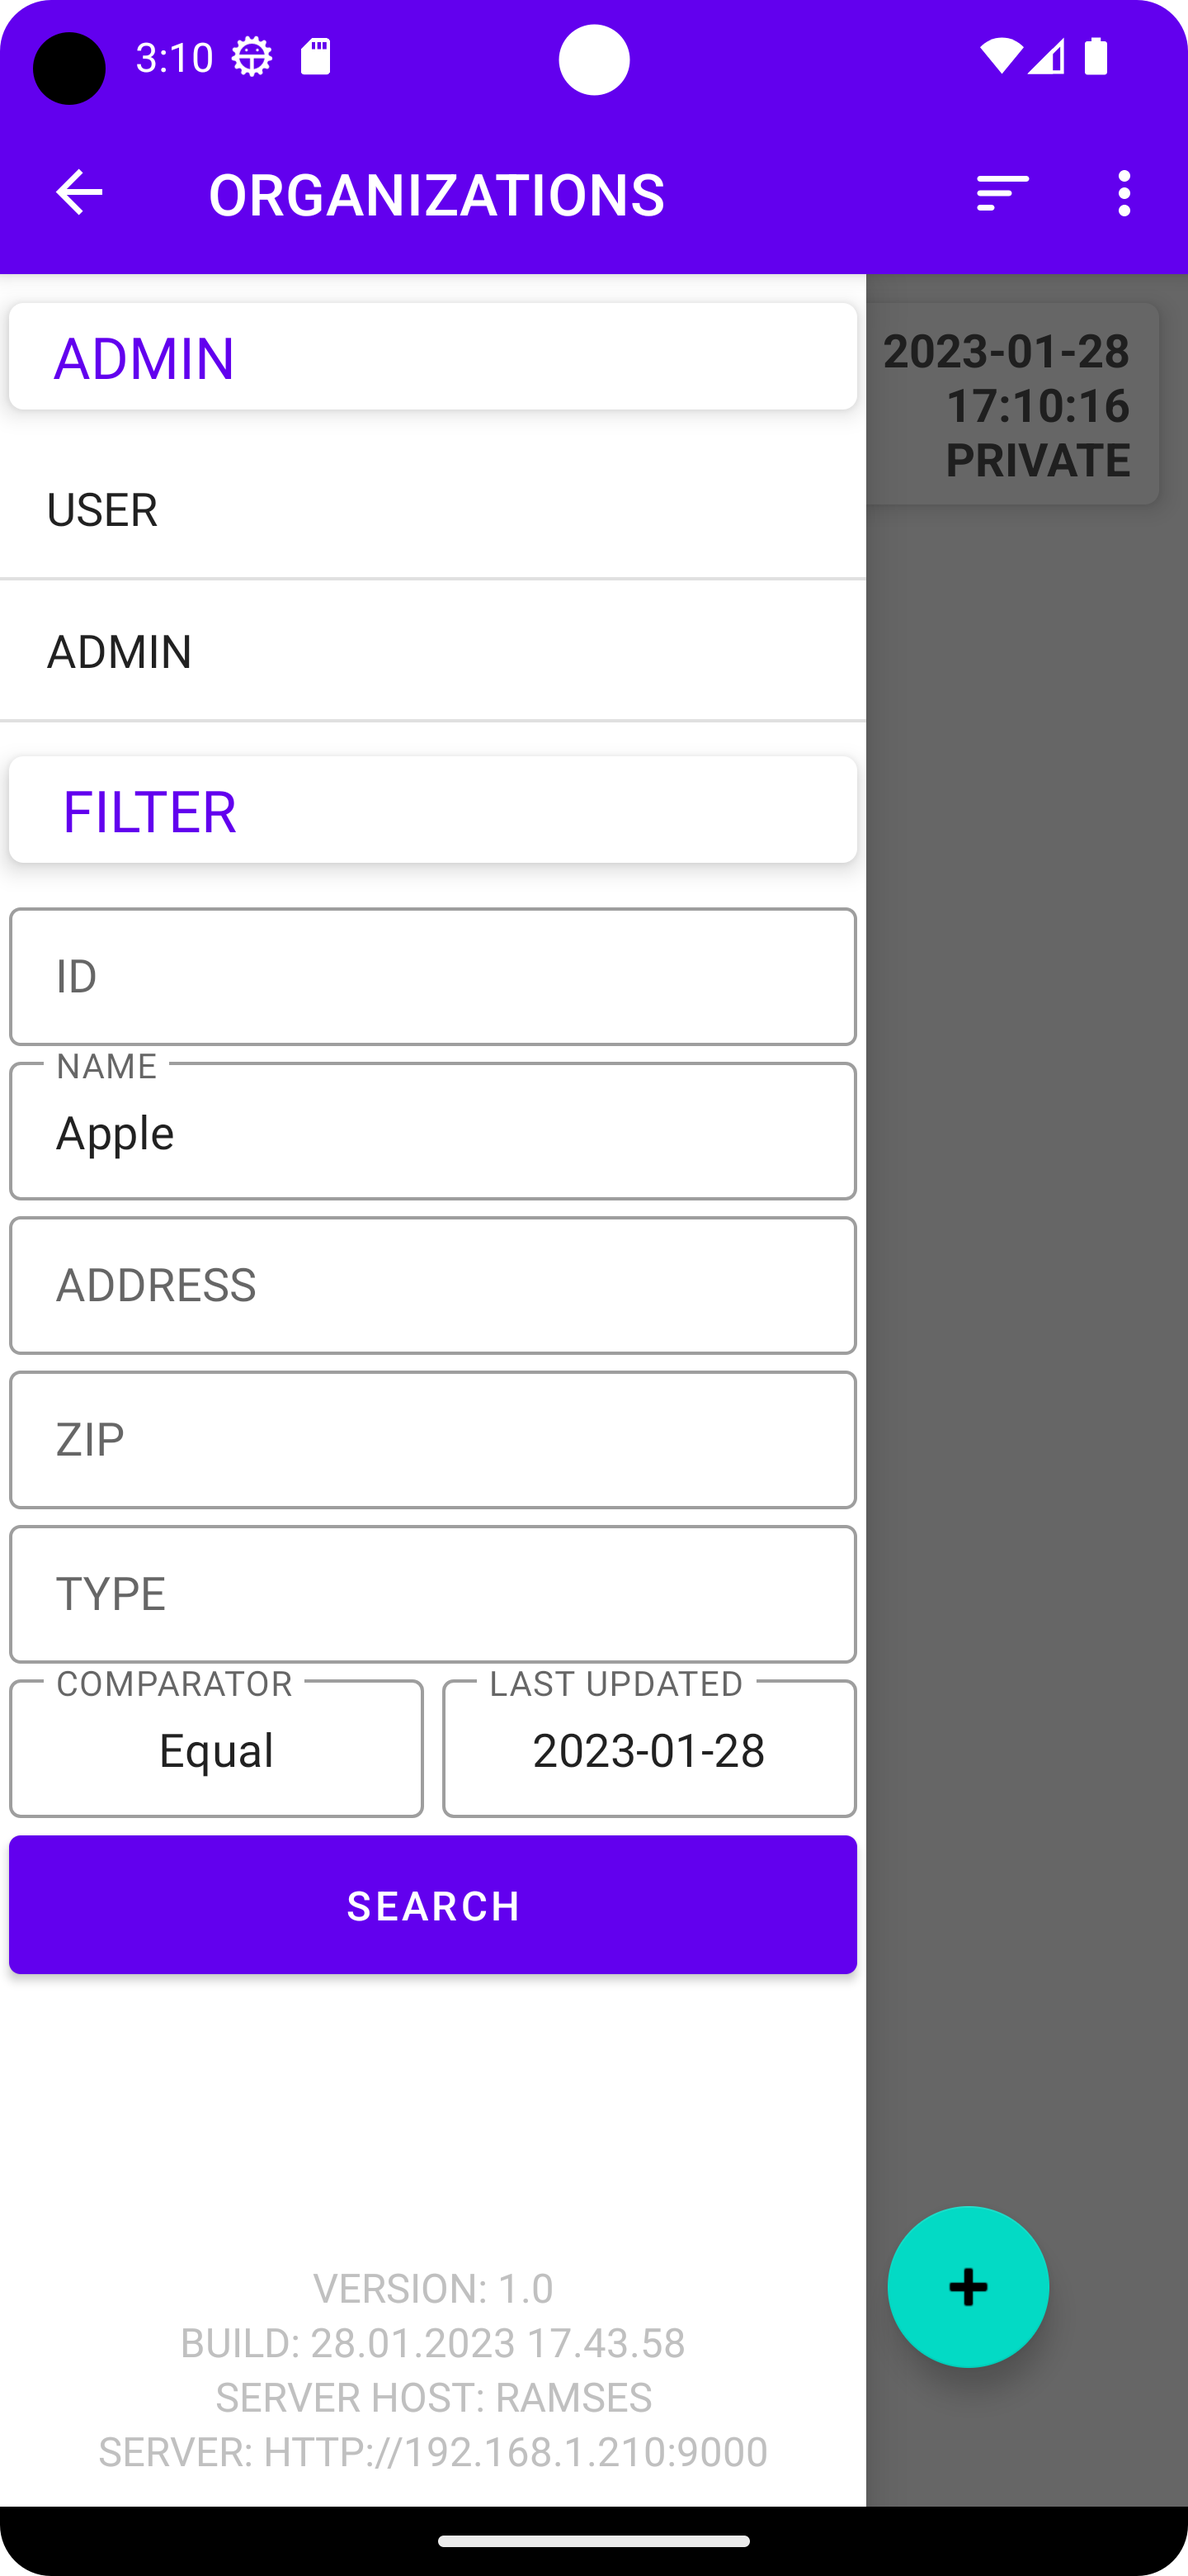
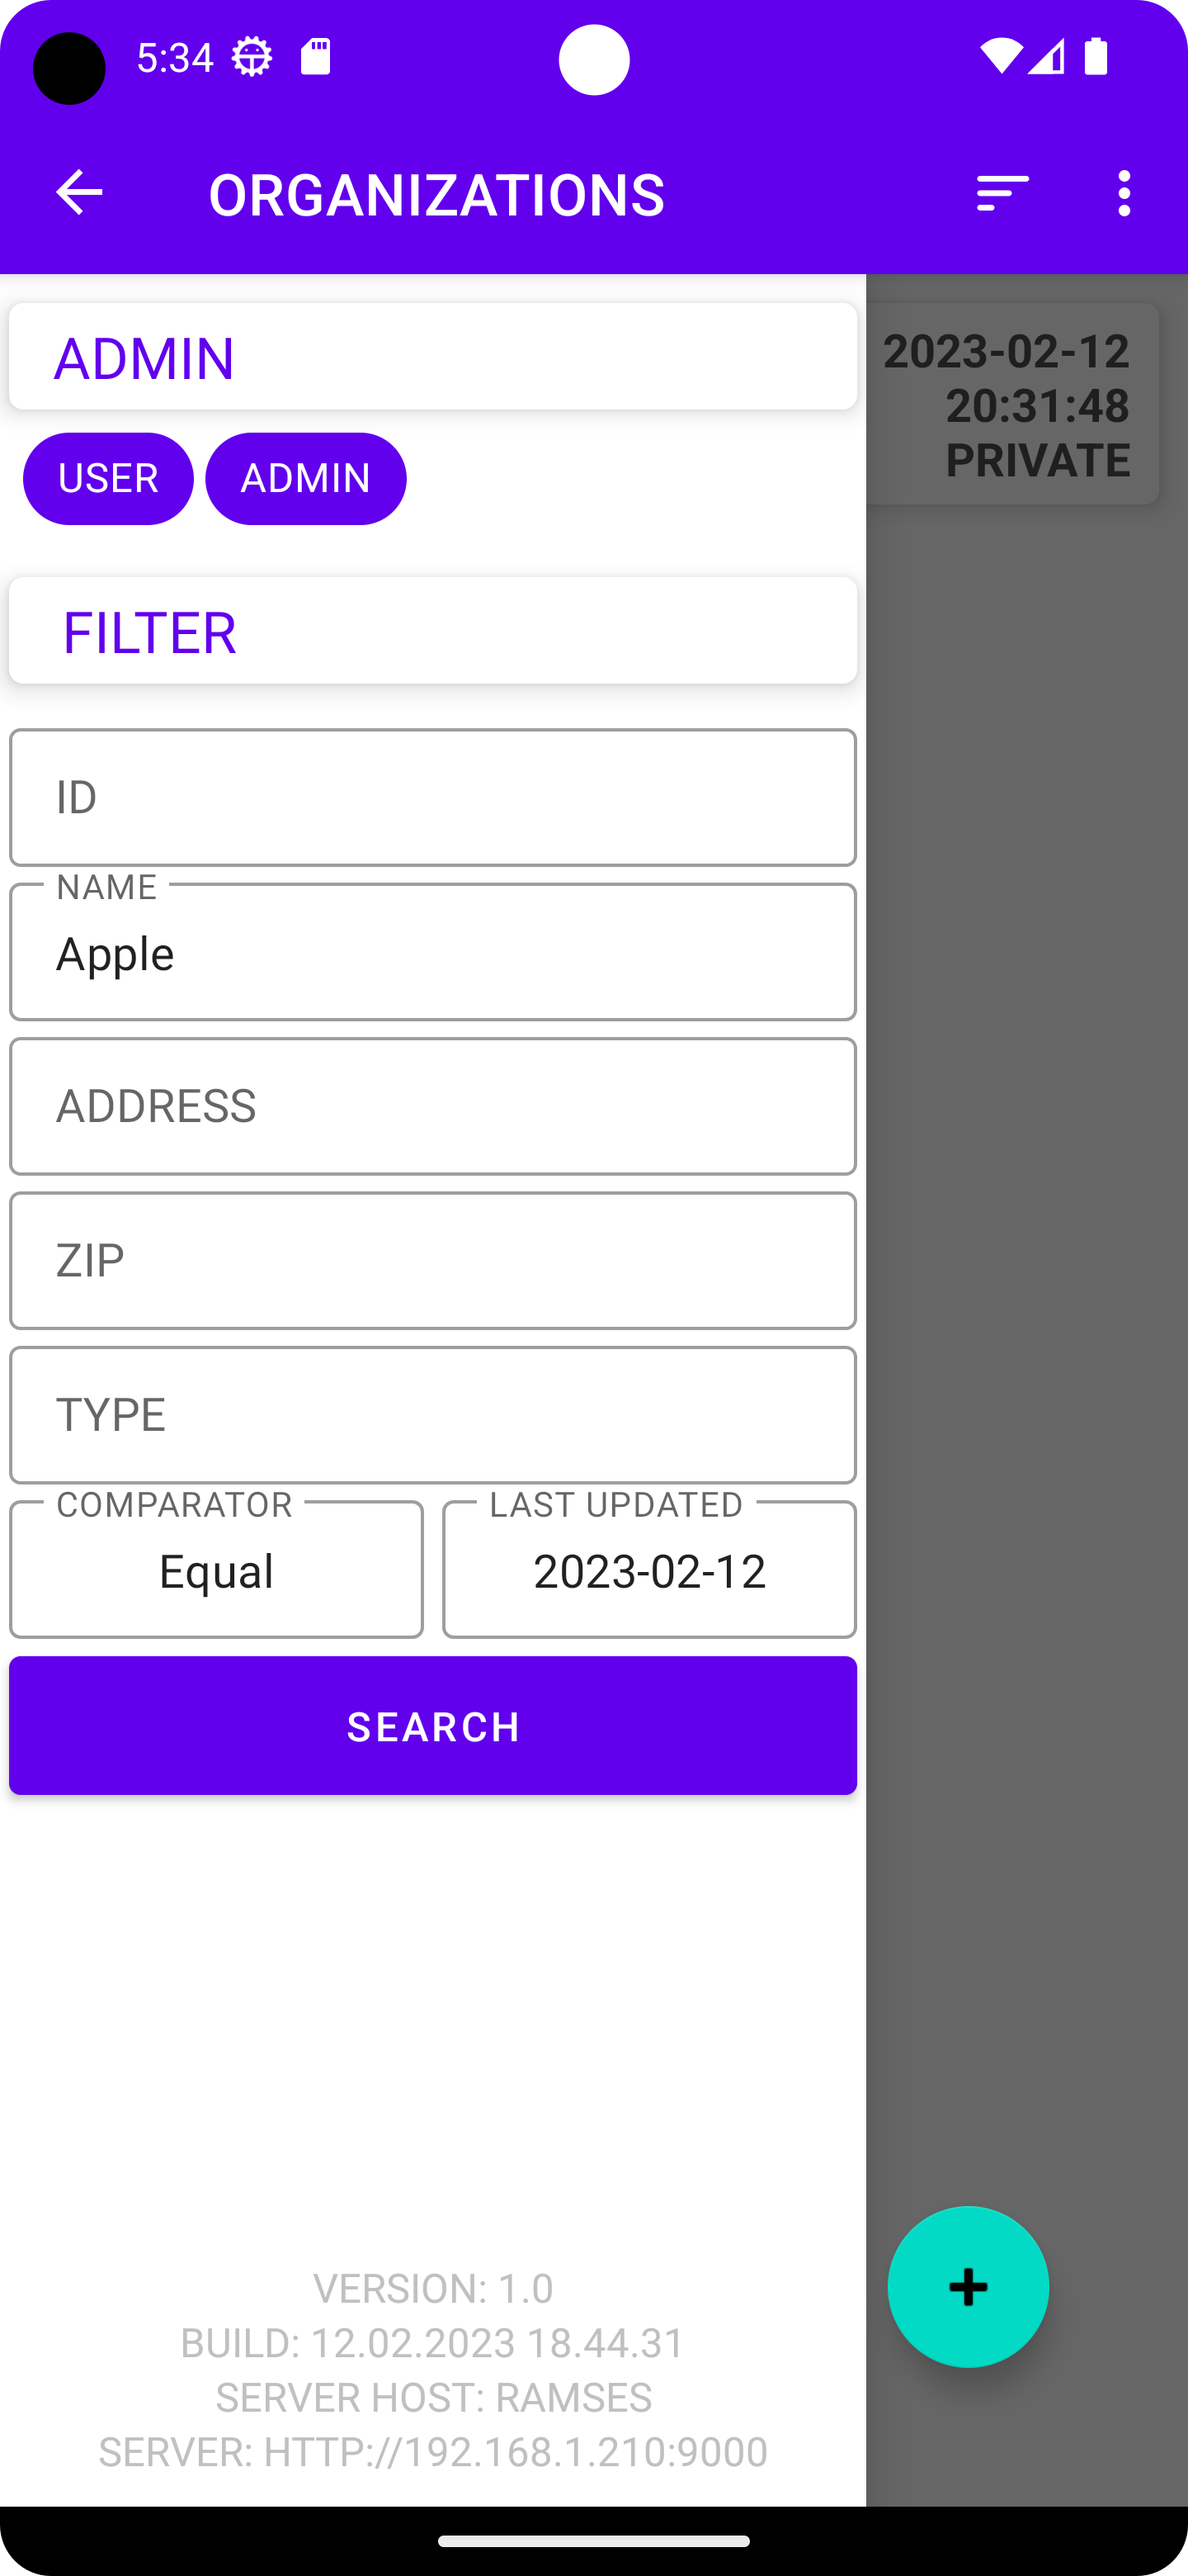
Refactoring

diff --git a/app/src/main/kotlin/com/deepschneider/addressbook/fragments/UserInfoFragment.kt b/app/src/main/kotlin/com/deepschneider/addressbook/fragments/UserInfoFragment.kt
@@ -2,12 +2,14 @@ package com.deepschneider.addressbook.fragments
 
 import android.app.Activity
 import android.content.Context
+import android.content.res.ColorStateList
+import android.graphics.Color
 import android.os.Bundle
 import android.util.Log
+import android.util.TypedValue
 import android.view.LayoutInflater
 import android.view.View
 import android.view.ViewGroup
-import android.widget.ArrayAdapter
 import androidx.fragment.app.Fragment
 import androidx.fragment.app.FragmentActivity
 import com.android.volley.RequestQueue
@@ -17,6 +19,7 @@ import com.deepschneider.addressbook.databinding.UserInfoFragmentBinding
 import com.deepschneider.addressbook.dto.User
 import com.deepschneider.addressbook.utils.NetworkUtils
 import com.deepschneider.addressbook.utils.Urls
+import com.google.android.material.chip.Chip
 import com.google.gson.Gson
 
 
@@ -61,7 +64,23 @@ class UserInfoFragment : Fragment() {
             JsonObjectRequest(Method.GET, serverUrl + Urls.USER_INFO, null, { response ->
                 val result = gson.fromJson(response.toString(), User::class.java)
                 binding.username.text = result.login.uppercase()
-                binding.roles.adapter = ArrayAdapter(listener, android.R.layout.simple_list_item_1, result.roles)
+                binding.chipGroupRoles.removeAllViews()
+                result.roles.forEach { role ->
+                    val chip = Chip(listener)
+                    chip.text = role
+                    chip.chipBackgroundColor = ColorStateList.valueOf(
+                        getThemeAccentColor(
+                            listener,
+                            android.R.attr.colorPrimary
+                        )
+                    )
+                    if (resources.configuration.isNightModeActive)
+                        chip.setTextColor(Color.BLACK)
+                    else
+                        chip.setTextColor(Color.WHITE)
+                    chip.isCloseIconVisible = false
+                    binding.chipGroupRoles.addView(chip)
+                }
             }, { error ->
                 Log.d("USER INFO ERROR", error.toString())
             }) {
@@ -74,5 +93,11 @@ class UserInfoFragment : Fragment() {
     override fun onStop() {
         super.onStop()
         requestQueue.cancelAll(requestTag)
+    }
+
+    fun getThemeAccentColor(context: Context, res: Int): Int {
+        val typedValue = TypedValue()
+        context.theme.resolveAttribute(res, typedValue, true)
+        return typedValue.data
     }
 }

diff --git a/app/src/main/kotlin/com/deepschneider/addressbook/activities/AbstractListActivity.kt b/app/src/main/kotlin/com/deepschneider/addressbook/activities/AbstractListActivity.kt
@@ -18,6 +18,7 @@ import androidx.preference.PreferenceManager
 import com.android.volley.*
 import com.android.volley.toolbox.Volley
 import com.deepschneider.addressbook.R
+import com.deepschneider.addressbook.drawer.Drawer
 import com.deepschneider.addressbook.dto.AlertDto
 import com.deepschneider.addressbook.dto.FilterDto
 import com.deepschneider.addressbook.network.FilteredListRequest
@@ -35,7 +36,7 @@ abstract class AbstractListActivity<in T> : AppCompatActivity() {
 
     protected lateinit var toggle: ActionBarDrawerToggle
     protected lateinit var requestQueue: RequestQueue
-    protected lateinit var mainDrawer: DrawerLayout
+    protected lateinit var mainDrawer: Drawer
     protected var serverUrl: String? = null
     private val gson = Gson()
     protected var totalListSize: Int? = null
@@ -48,8 +49,9 @@ abstract class AbstractListActivity<in T> : AppCompatActivity() {
         serverUrl = NetworkUtils.getServerUrl(this@AbstractListActivity)
     }
 
-    protected fun prepareActionBar(drawer: DrawerLayout) {
+    protected fun prepareActionBar(drawer: Drawer) {
         mainDrawer = drawer
+        mainDrawer.setInterceptTouchEventChildId(R.id.roles_view);
         supportActionBar?.setDisplayHomeAsUpEnabled(true)
         supportActionBar?.setHomeButtonEnabled(true)
         toggle = ActionBarDrawerToggle(this, mainDrawer, R.string.drawer_opened, R.string.drawer_closed)

diff --git a/app/src/main/kotlin/com/deepschneider/addressbook/drawer/Drawer.kt b/app/src/main/kotlin/com/deepschneider/addressbook/drawer/Drawer.kt
@@ -1,0 +1,33 @@
+package  com.deepschneider.addressbook.drawer
+
+import android.content.Context
+import android.graphics.Rect
+import android.util.AttributeSet
+import android.view.MotionEvent
+import android.view.View
+
+import androidx.drawerlayout.widget.DrawerLayout
+
+class Drawer : DrawerLayout {
+    private var mInterceptTouchEventChildId = 0
+    fun setInterceptTouchEventChildId(id: Int) {
+        mInterceptTouchEventChildId = id
+    }
+
+    constructor(context: Context) : super(context) {}
+    constructor(context: Context, attrs: AttributeSet?) : super(context, attrs) {}
+
+    override fun onInterceptTouchEvent(ev: MotionEvent): Boolean {
+        if (mInterceptTouchEventChildId > 0) {
+            val scroll: View? = findViewById(mInterceptTouchEventChildId)
+            if (scroll != null) {
+                val rect = Rect()
+                scroll.getHitRect(rect)
+                if (rect.contains(ev.x.toInt(), ev.y.toInt())) {
+                    return false
+                }
+            }
+        }
+        return super.onInterceptTouchEvent(ev)
+    }
+}

diff --git a/app/src/main/kotlin/com/deepschneider/addressbook/activities/LoginActivity.kt b/app/src/main/kotlin/com/deepschneider/addressbook/activities/LoginActivity.kt
@@ -346,11 +346,7 @@ class LoginActivity : AppCompatActivity() {
                         errString: CharSequence
                     ) {
                         super.onAuthenticationError(errorCode, errString)
-                        Toast.makeText(
-                            applicationContext,
-                            this@LoginActivity.getString(R.string.biometric_authentification_error_message) + " " + errString,
-                            Toast.LENGTH_SHORT
-                        ).show()
+                        startOrganizationActivity()
                     }
 
                     override fun onAuthenticationSucceeded(
